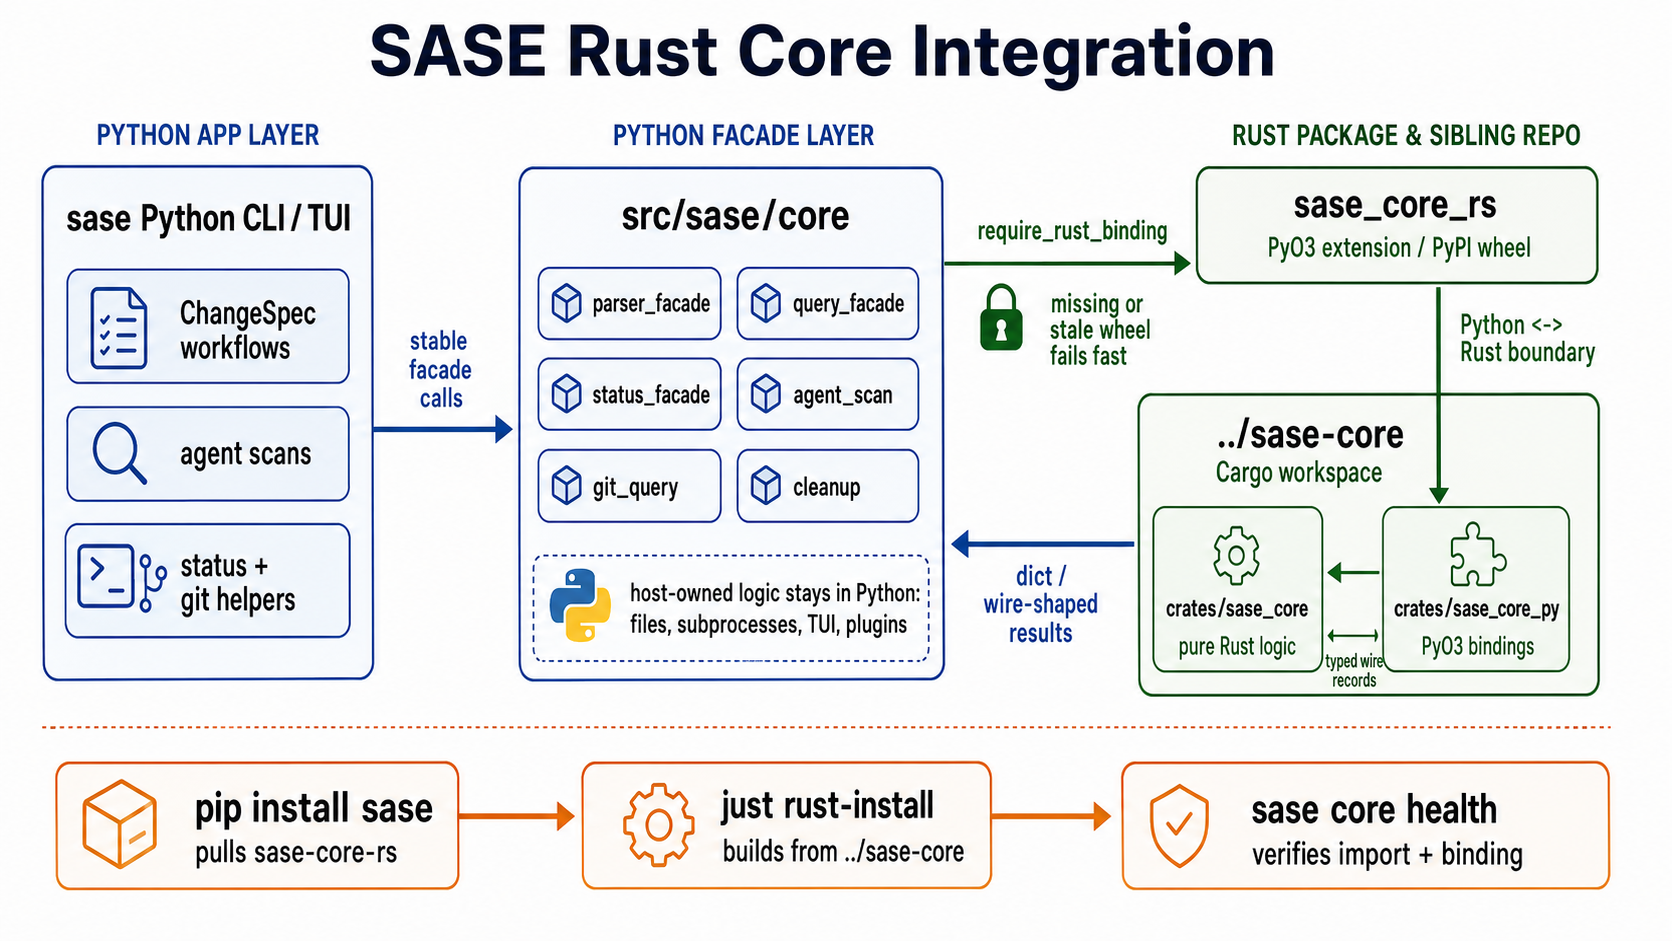
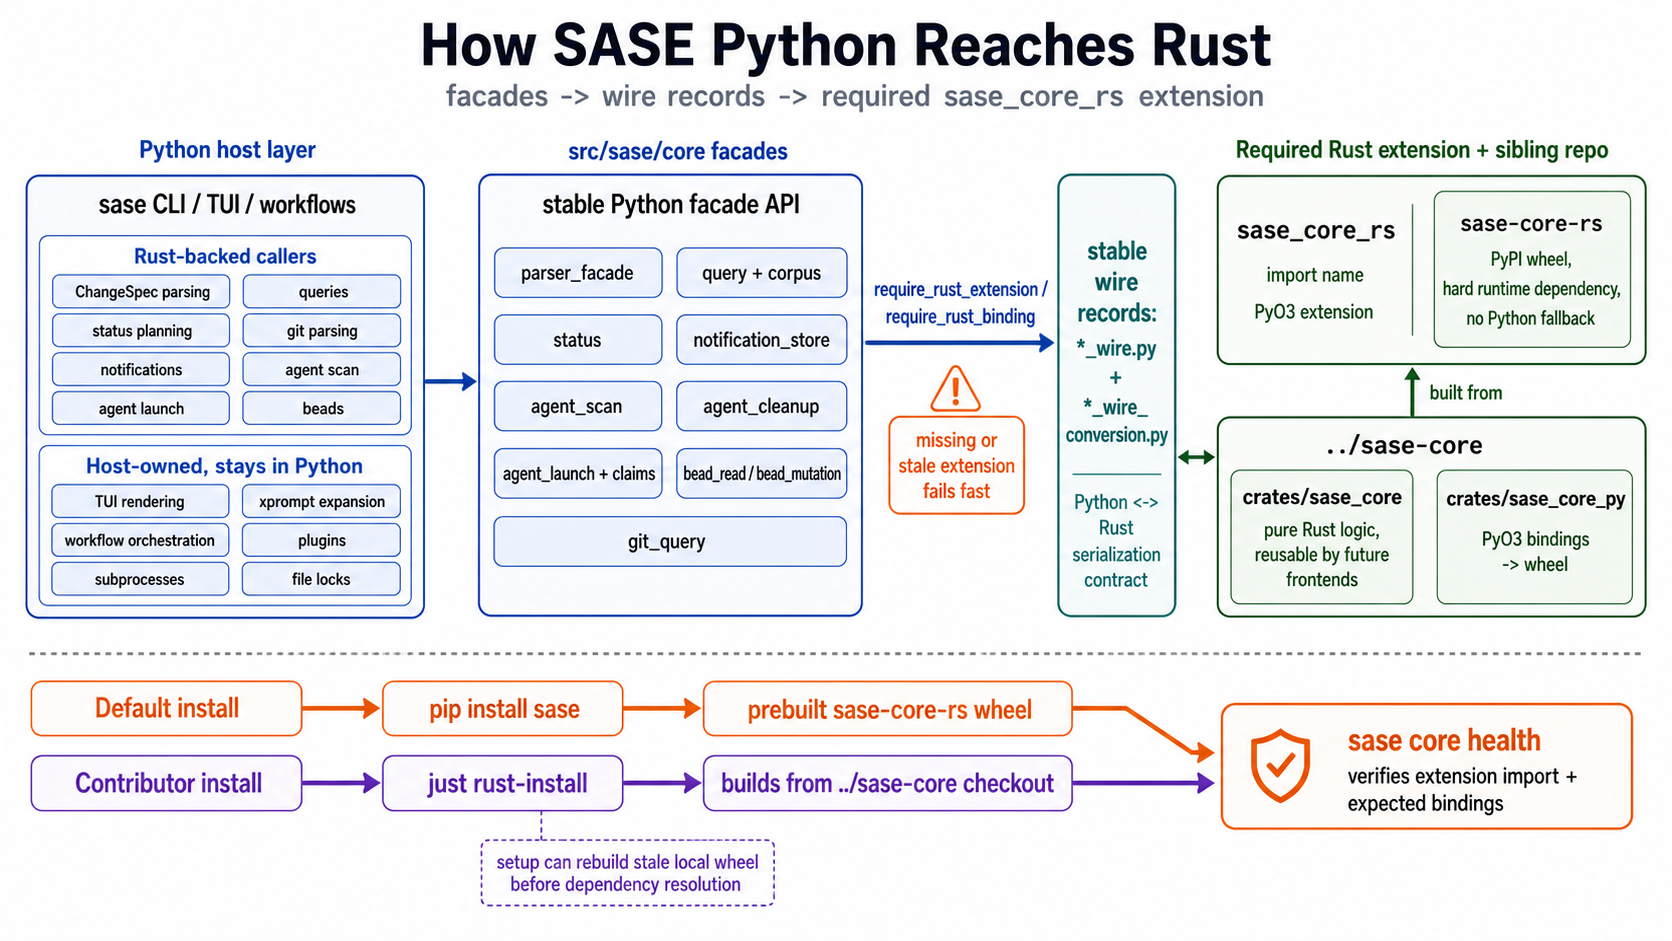
chore: regenerate sase-rust-core-integration infographic (sase-2s.15) (sase-2s)
PLAN=sdd/tales/202605/complete_sase_2s.md

Changed region(s): [[0.0, 0.0, 0.9952, 0.9554]]

diff --git a/docs/images/sase-rust-core-integration.prompt.md b/docs/images/sase-rust-core-integration.prompt.md
@@ -1,0 +1,74 @@
+---
+pdf: false
+generated: 2026-05-10
+source_critique: docs/images/sase-rust-core-integration.critique.md
+---
+
+# Prompt: `docs/images/sase-rust-core-integration.png`
+
+## Target
+
+- Target doc: `docs/architecture.md`
+- Insertion point: under `## Rust Core Boundary`, after the opening paragraph that summarizes Rust-backed areas.
+- Intended alt text: Layered diagram showing how SASE Python host code reaches Rust through `src/sase/core` facades,
+  stable wire records, the required `sase_core_rs` extension, and the `../sase-core` source workspace, with default and
+  contributor install paths converging on `sase core health`.
+
+## Final Prompt
+
+```text
+Use case: infographic-diagram Asset type: documentation architecture infographic, 16:9 PNG, landscape, light background,
+crisp vector-like blocks, readable at GitHub Markdown width. Primary request: Create a revised SASE Rust core
+integration diagram that answers: "How SASE Python reaches Rust: facades, wire records, and the required sase_core_rs
+extension".
+
+Visual style: clean technical architecture infographic, neutral off-white background, thin rounded rectangles,
+restrained shadows, blue for Python, teal for wire records, green for Rust, orange for install/verify paths. No
+decorative gradients, no logos, no terminal screenshots, no paragraphs. Use clear arrows and exact short labels.
+
+Layout: Top title centered: "How SASE Python Reaches Rust" Subtitle below title: "facades -> wire records -> required
+sase_core_rs extension"
+
+Main architecture flow, left to right, three columns:
+
+1. Left column header: "Python host layer" Large box label: "sase CLI / TUI / workflows" Include two groups inside:
+   - "Rust-backed callers" with chips: "ChangeSpec parsing", "queries", "status planning", "git parsing",
+     "notifications", "agent scan", "agent launch", "beads"
+   - "Host-owned, stays in Python" with chips: "TUI rendering", "xprompt expansion", "workflow orchestration",
+     "plugins", "subprocesses", "file locks"
+
+2. Middle column header: "src/sase/core facades" Large box label: "stable Python facade API" Show grouped chips, not an
+   exhaustive fake module list: "parser_facade", "query + corpus", "status", "notification_store", "agent_scan",
+   "agent_cleanup", "agent_launch + claims", "bead_read / bead_mutation", "git_query" Add a loader call arrow from this
+   box toward Rust labeled: "require_rust_extension / require_rust_binding" Add a small warning badge anchored to this
+   loader arrow: "missing or stale extension fails fast"
+
+3. Between middle and right, add a horizontal teal band labeled exactly: "stable wire records: *_wire.py +
+   *_wire_conversion.py" Small sublabel: "Python <-> Rust serialization contract"
+
+4. Right column header: "Required Rust extension + sibling repo" Top box: "sase_core_rs" with sublabels "import name"
+   and "PyO3 extension" Adjacent or footnote box: "sase-core-rs" with sublabel "PyPI wheel, hard runtime dependency, no
+   Python fallback" Below, sibling repo box: "../sase-core" with two crate boxes:
+   - "crates/sase_core" sublabel "pure Rust logic, reusable by future frontends"
+   - "crates/sase_core_py" sublabel "PyO3 bindings -> wheel" Arrow from ../sase-core up to sase_core_rs labeled: "built
+     from". Do NOT label this arrow as the Python/Rust boundary.
+
+Bottom install and verification row separated from the architecture flow by a dotted rule: Show two parallel paths that
+merge into verification, making OR explicit:
+
+- "Default install" -> "pip install sase" -> "prebuilt sase-core-rs wheel"
+- "Contributor install" -> "just rust-install" -> "builds from ../sase-core checkout" Both arrows merge into "sase core
+  health" with sublabel "verifies extension import + expected bindings". Add a small note near contributor path: "setup
+  can rebuild stale local wheel before dependency resolution".
+
+Text constraints: render only the labels specified above, with exact spelling for code identifiers: sase_core_rs,
+sase-core-rs, src/sase/core, ../sase-core, crates/sase_core, crates/sase_core_py, *_wire.py, *_wire_conversion.py.
+Make code identifiers monospace-like. Keep text large, high contrast, and horizontal. Avoid tiny footnotes except the
+single required note. No extra invented labels. No watermarks.
+```
+
+## Post-Processing Notes
+
+- Generated with the built-in GPT image generation tool.
+- Generated image copied from the Codex image cache to `docs/images/sase-rust-core-integration.png`.
+- No deterministic relabeling was needed; the generated text was legible enough for documentation use.
